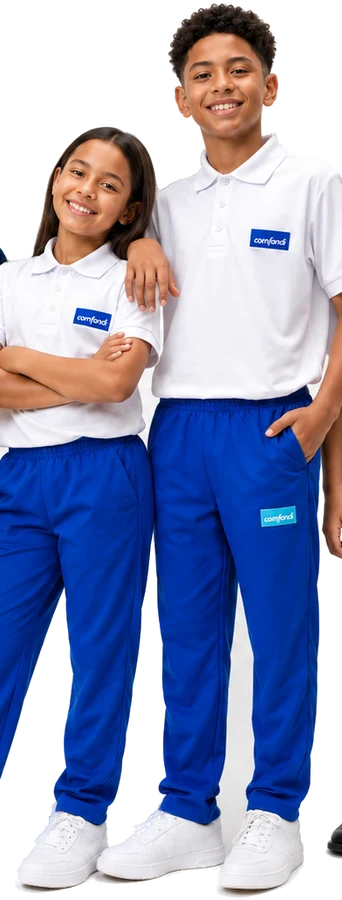
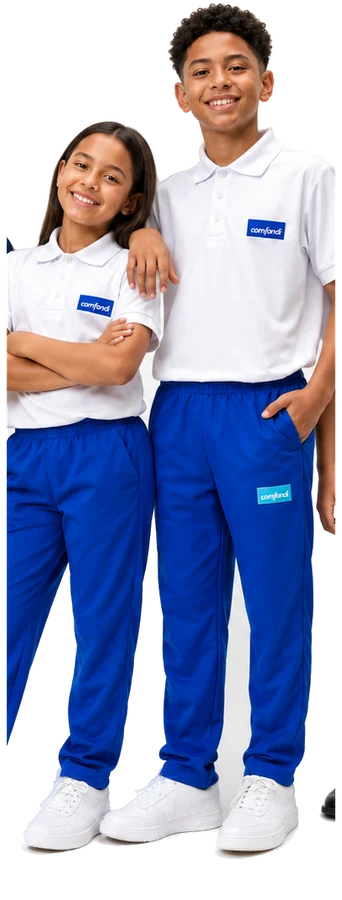
fix: agrega aire bajo los recortes para que no se vean cortados
- Padding transparente horneado en los cutouts (héroe y cards de colegio)
- Cards de colegio centradas con py-5: los pies ya no tocan el borde redondeado
- Aspect ratio del héroe actualizado al nuevo recorte

diff --git a/src/components/school-quick-selector.tsx b/src/components/school-quick-selector.tsx
@@ -21,9 +21,9 @@ export function SchoolQuickSelector() {
             key={school.id}
             type="button"
             onClick={() => selectSchoolAndScroll(school.id)}
-            className="group grid grid-cols-[minmax(0,0.8fr)_minmax(0,1.2fr)] items-end gap-4 overflow-hidden rounded-2xl bg-surface pt-5 text-left transition-transform duration-200 hover:-translate-y-0.5 focus-visible:outline-2 focus-visible:outline-offset-2 focus-visible:outline-primary"
+            className="group grid grid-cols-[minmax(0,0.8fr)_minmax(0,1.2fr)] items-center gap-4 overflow-hidden rounded-2xl bg-surface py-5 text-left transition-transform duration-200 hover:-translate-y-0.5 focus-visible:outline-2 focus-visible:outline-offset-2 focus-visible:outline-primary"
           >
-            <span className="relative block h-44 w-full sm:h-52">
+            <span className="relative block h-44 w-full sm:h-48">
               <Image
                 src={school.image}
                 alt={`Uniformes de ${school.name}`}

diff --git a/src/components/hero.tsx b/src/components/hero.tsx
@@ -142,7 +142,7 @@ function HeroArtwork() {
         />
       </svg>
 
-      <div className="relative aspect-[1047/1250] w-full">
+      <div className="relative aspect-[1042/1250] w-full">
         <Image
           src="/images/hero/estudiantes.webp"
           alt="Estudiantes con uniformes de Colegios Arquidiocesanos y Comfandi"
